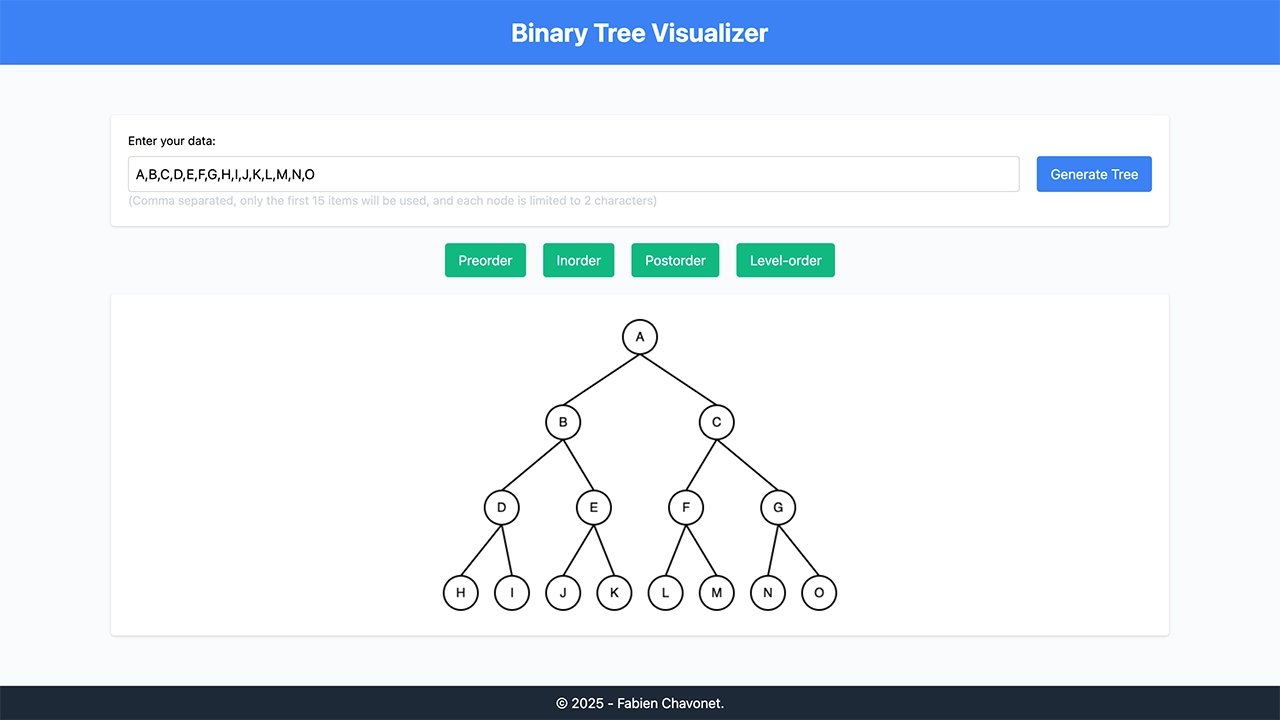
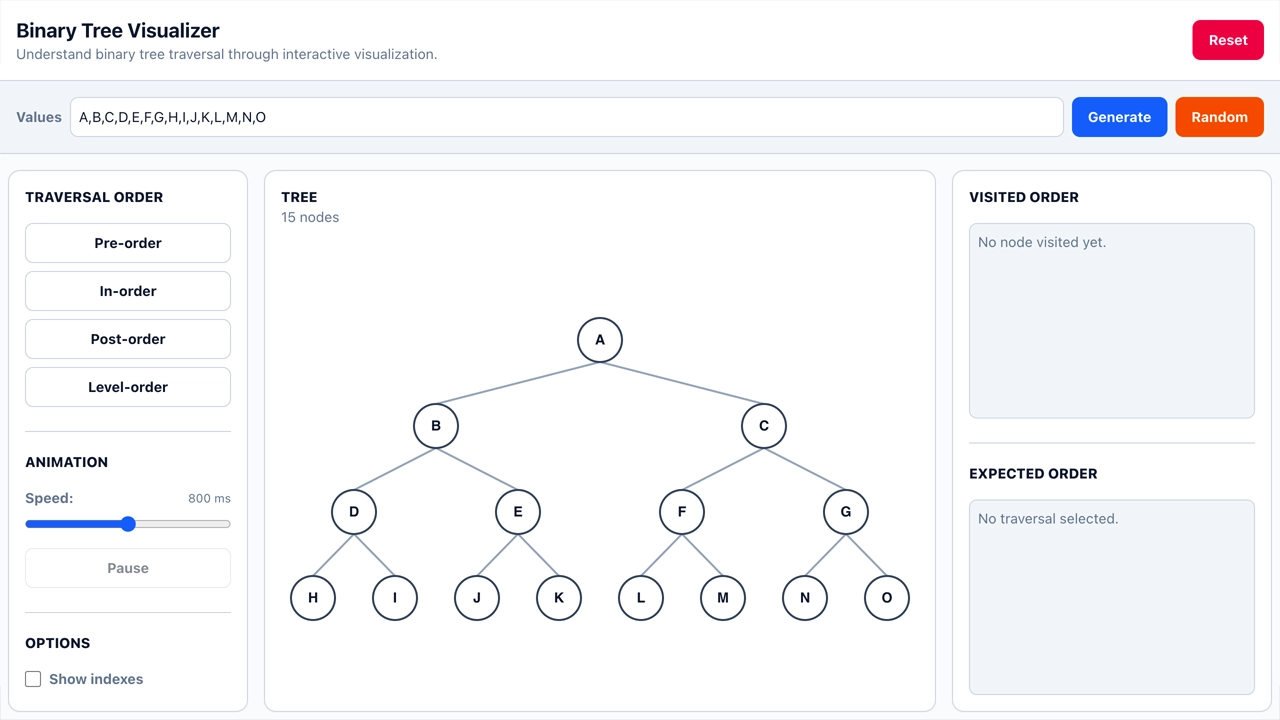
Update README.md file.

diff --git a/README.md b/README.md
@@ -2,11 +2,9 @@
 
 ## Description
 
-This project is a visual learning tool designed to help students understand binary trees, particularly the different traversal types (preorder, inorder, postorder, and level-order).
+This project is a visual learning tool designed to help students understand binary trees, particularly the different traversal types (pre-order, in-order, post-order, and level-order).
 
 I created this tool to provide an easy-to-use visual representation that illustrates how binary trees are structured and how traversals work.
-
-Although not perfect, it effectively serves its educational purpose.
 
 ## Objectives
 
@@ -55,7 +53,7 @@ git clone https://github.com/fchavonet/full_stack-binary_tree_visualizer.git
 
 3. Click on "Generate Tree" to visualize the binary tree.
 
-4. Use the traversal buttons (Preorder, Inorder, Postorder, Level-order) to see the tree traversal animations.
+4. Use the traversal buttons (Pre-order, In-order, Post-order, Level-order) to see the tree traversal animations.
 
 You can also test the project online by clicking [here](https://fchavonet.github.io/full_stack-binary_tree_visualizer/).
 
@@ -65,8 +63,8 @@ You can also test the project online by clicking [here](https://fchavonet.github
 
 ## What's Next?
 
-- Add responsive design support.
-- Improve the overall user interface and visuals.
+- Fix remaining minor bugs.
+- Add more customization options.
 
 ## Thanks
 